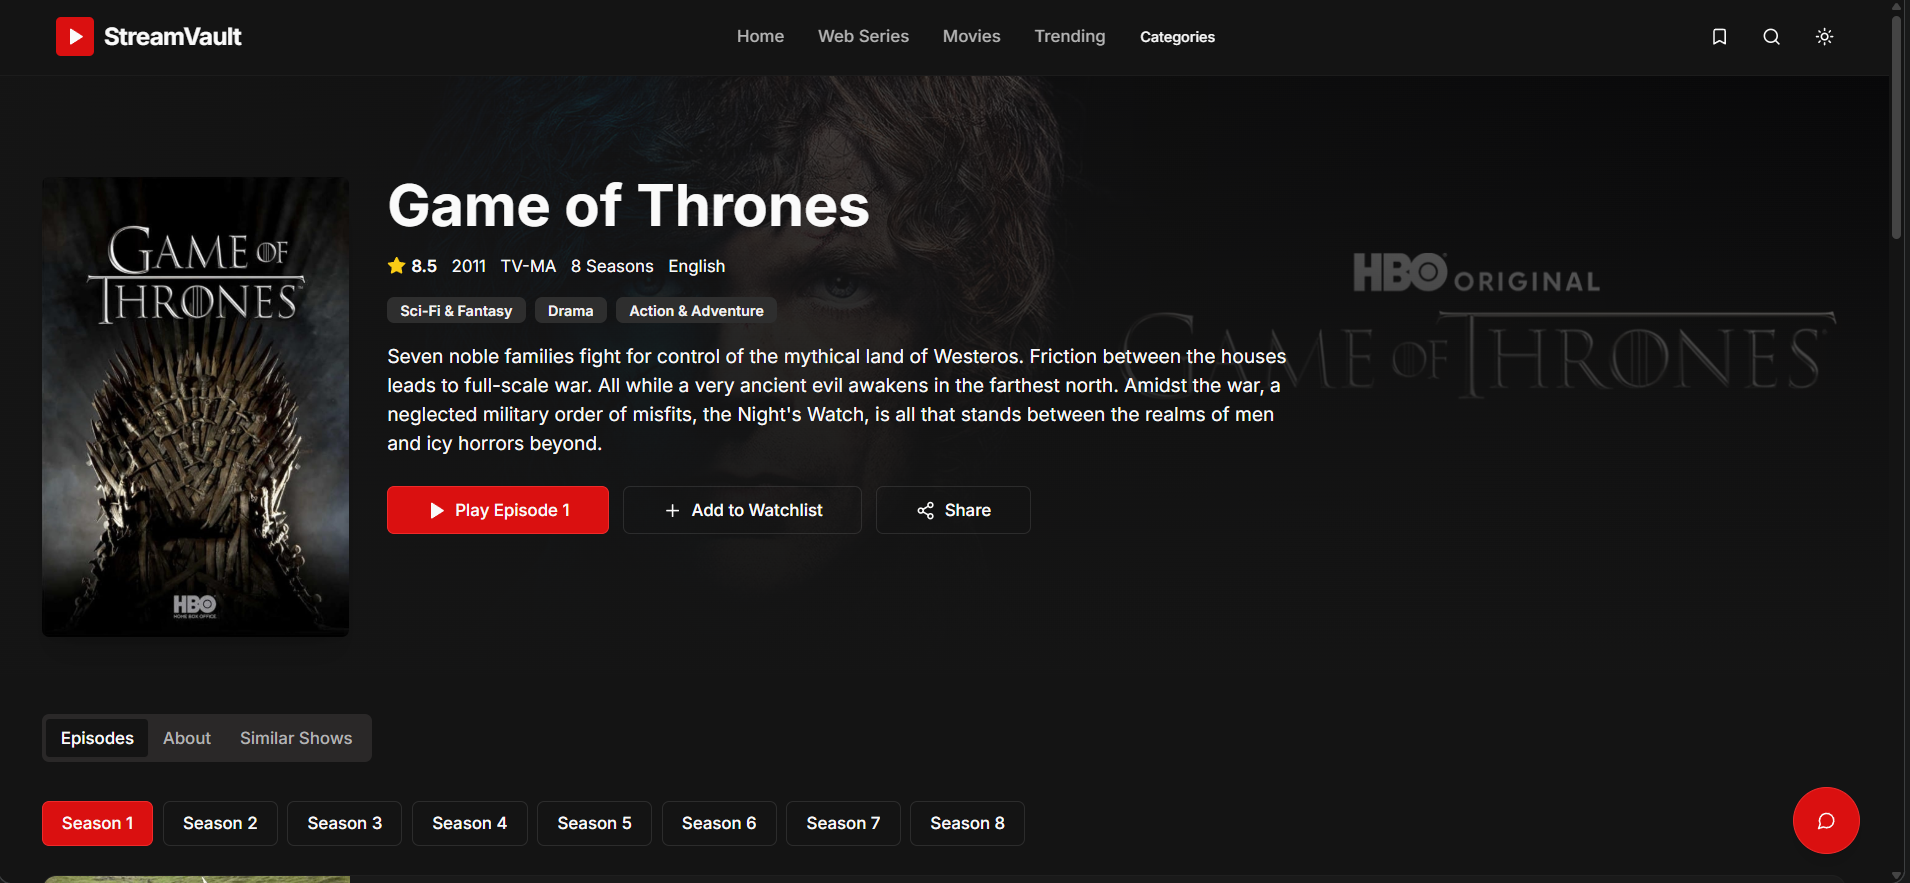
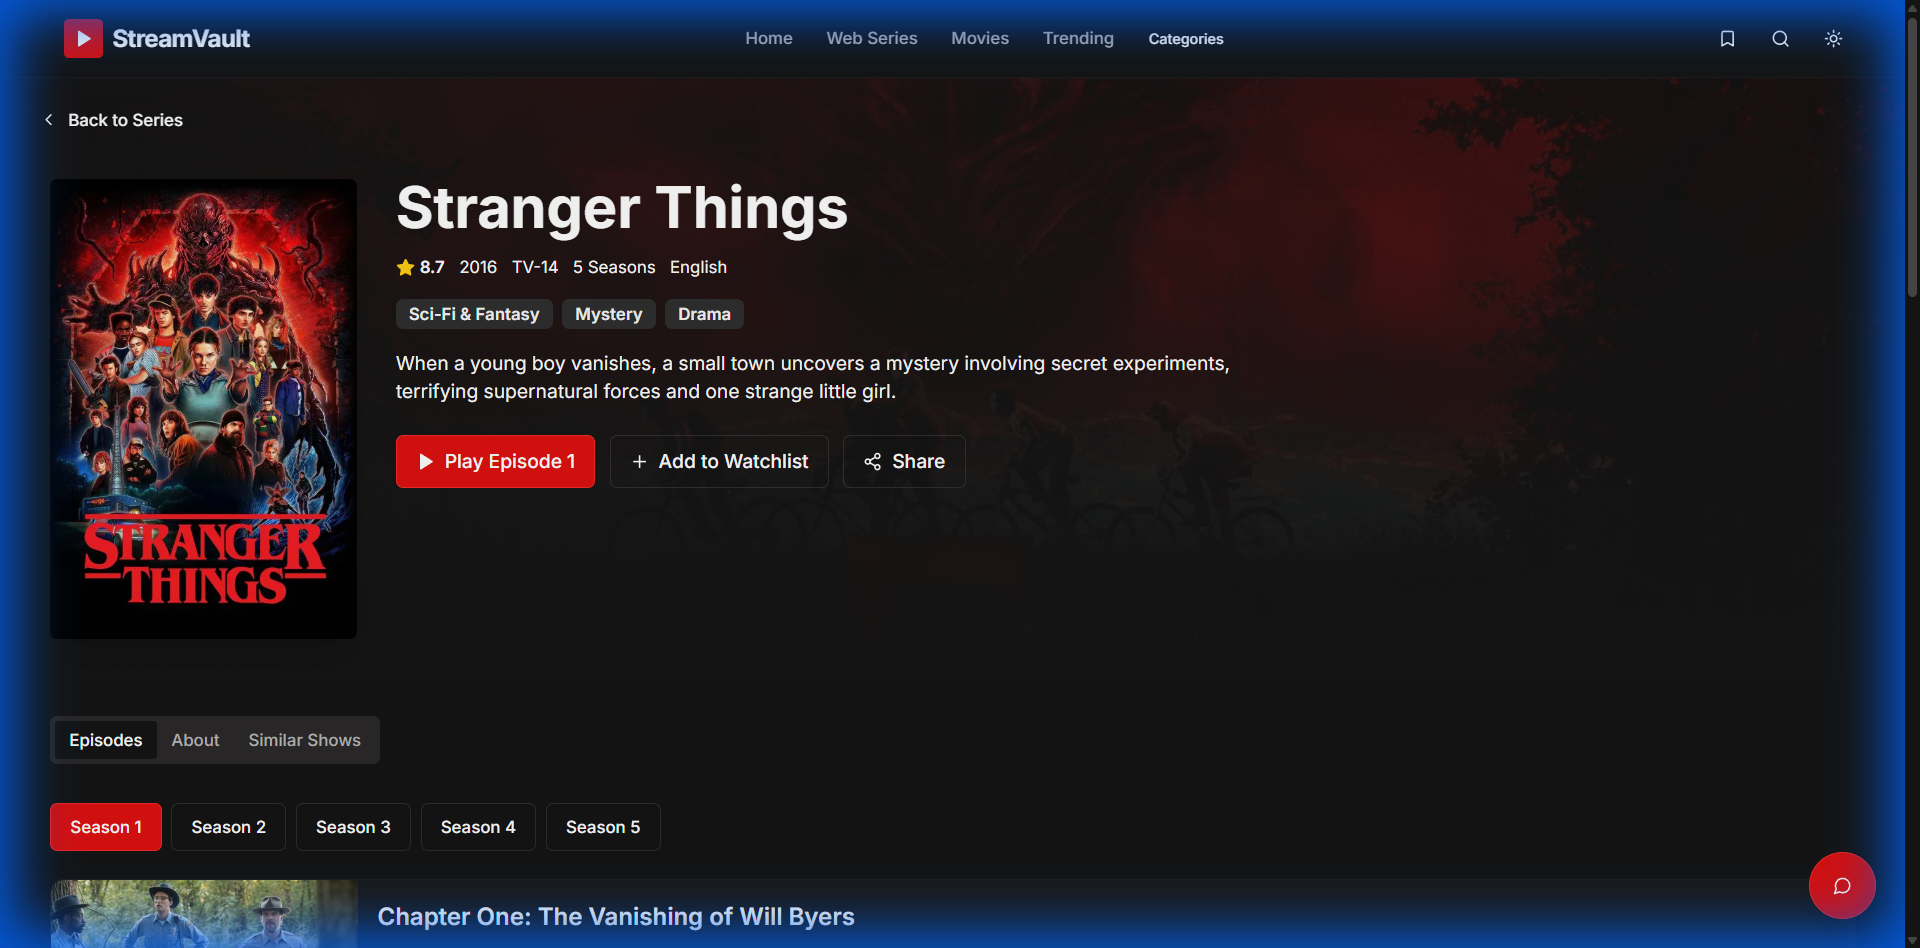
docs: Add new screenshots and video demo to README

diff --git a/README.md b/README.md
@@ -470,83 +470,43 @@ MIT License - feel free to use for personal or commercial projects
 
 ---
 
+## 🎥 Demo Video
+
+See StreamVault in action:
+
+![Website Demo](./screenshots/website-demo.webp)
+
+---
+
 ## 📸 Screenshots
 
 ### 🏠 Homepage
-Beautiful Netflix-inspired homepage with hero carousel and content rows.
+Beautiful Netflix-inspired homepage with hero carousel and trending content rows.
 
 ![Homepage](./screenshots/homepage.png)
 
 ---
 
-### 🎬 Shows Page
-Browse all TV shows with clean card design and hover effects.
-
-![Shows Page](./screenshots/shows-page.png)
-
----
-
 ### 🎥 Movies Page
-Explore movies with featured carousel and genre-based rows.
+Browse all movies with clean card design, ratings, and hover effects.
 
 ![Movies Page](./screenshots/movies-page.png)
 
 ---
 
 ### 📺 Show Detail Page
-Comprehensive show information with seasons, episodes, and cast details.
+Comprehensive show information with seasons, episodes, cast, and production companies.
 
 ![Show Detail](./screenshots/show-detail.png)
 
 ---
 
-### 🎞 Movie Detail Page
-Movie details with watchlist, share, and play functionality.
+### 📝 Blog Article Page
+SEO-optimized blog articles with trailers, cast info, trivia, and external links.
 
-![Movie Detail](./screenshots/movie-detail.png)
-
----
-
-### ▶ Video Player (Shows)
-Netflix-style player with episode navigation and progress tracking.
-
-![Video Player - Shows](./screenshots/video-player-show.png)
-
----
-
-### 🎬 Video Player (Movies)
-Clean movie player with Google Drive integration.
-
-![Video Player - Movies](./screenshots/video-player-movie.png)
-
----
-
-### 🔍 Search Page
-Advanced search with genre filters and year range selection.
-
-![Search Page](./screenshots/search-page.png)
-
----
-
-### 📑 Category Page
-Browse content by genre with tabs for shows and movies.
-
-![Category Page](./screenshots/category-page.png)
-
----
-
-### 🔖 Watchlist
-Unified watchlist with tabs for all content, shows, and movies.
-
-![Watchlist](./screenshots/watchlist.png)
-
----
-
-### 📱 Mobile View
-Fully responsive design optimized for mobile devices.
-
-![Mobile View](./screenshots/mobile-view.png)
+![Blog Article](./screenshots/blog-article.png)
 
 ---
 
 **Ready to stream? Run `npm run dev` and visit http://localhost:5000** 🎬
+
